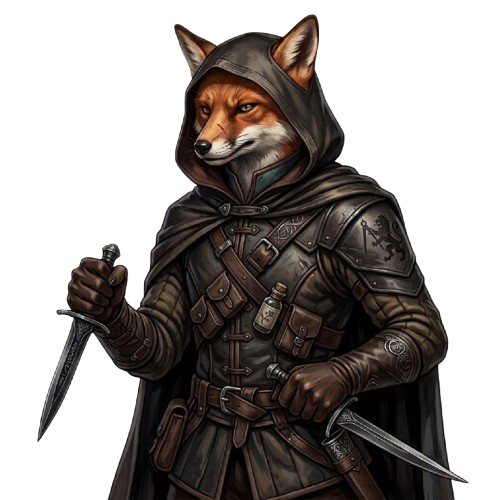
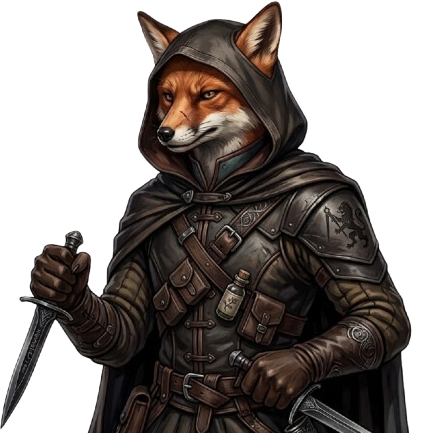
update des visuels 4

diff --git a/scripts/normalize-character-images.py b/scripts/normalize-character-images.py
@@ -6,6 +6,21 @@ TARGET_RATIO = 1, 1
 directories = (Path('public/images/npcs'), Path('public/images/enemies'))
 paths = [path for directory in directories for path in sorted(directory.glob('*.png'))]
 
+
+def crop_height(image: Image.Image, target_height: int) -> Image.Image:
+    while image.height > target_height:
+        alpha = image.getchannel('A')
+        top = alpha.crop((0, 0, image.width, 1)).getbbox() is None
+        bottom = alpha.crop((0, image.height - 1, image.width, image.height)).getbbox() is None
+        if top:
+            image = image.crop((0, 1, image.width, image.height))
+        elif bottom:
+            image = image.crop((0, 0, image.width, image.height - 1))
+        else:
+            image = image.crop((0, 0, image.width, image.height - 1))
+    return image
+
+
 for path in paths:
     image = Image.open(path)
     alpha = image.getchannel('A') if 'A' in image.getbands() else None
@@ -18,7 +33,10 @@ for path in paths:
     width, height = image.size
     target_width = min(width, round(height * TARGET_RATIO[0] / TARGET_RATIO[1]))
     target_height = min(height, round(width * TARGET_RATIO[1] / TARGET_RATIO[0]))
-    left = (width - target_width) // 2
-    top = (height - target_height) // 2
-    image.crop((left, top, left + target_width, top + target_height)).save(path, format='PNG', optimize=True)
+    if height > target_height:
+        image = crop_height(image, target_height)
+    elif width > target_width:
+        left = (width - target_width) // 2
+        image = image.crop((left, 0, left + target_width, height))
+    image.save(path, format='PNG', optimize=True)
     print(path)
